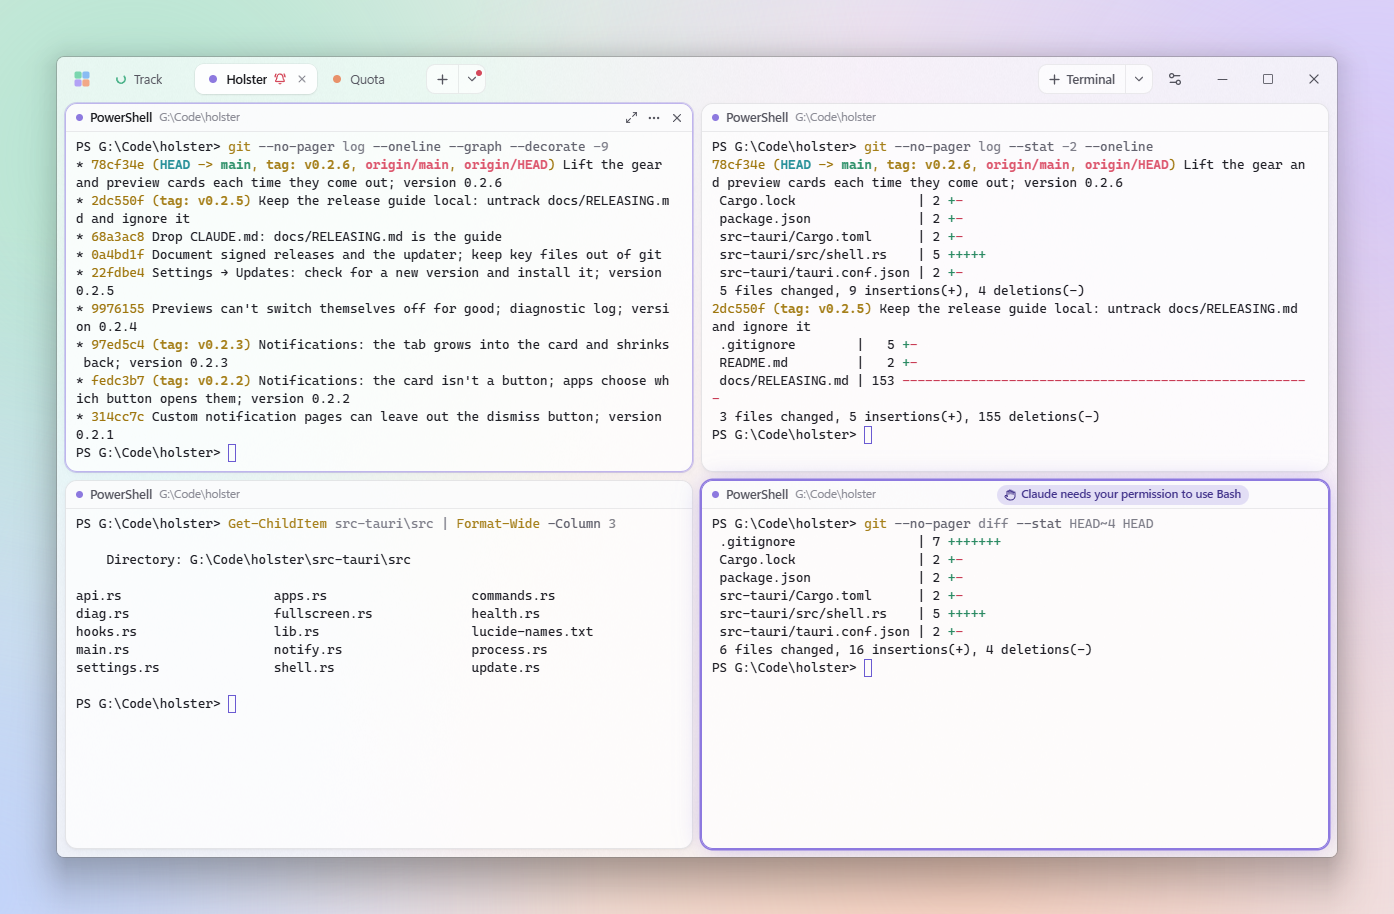
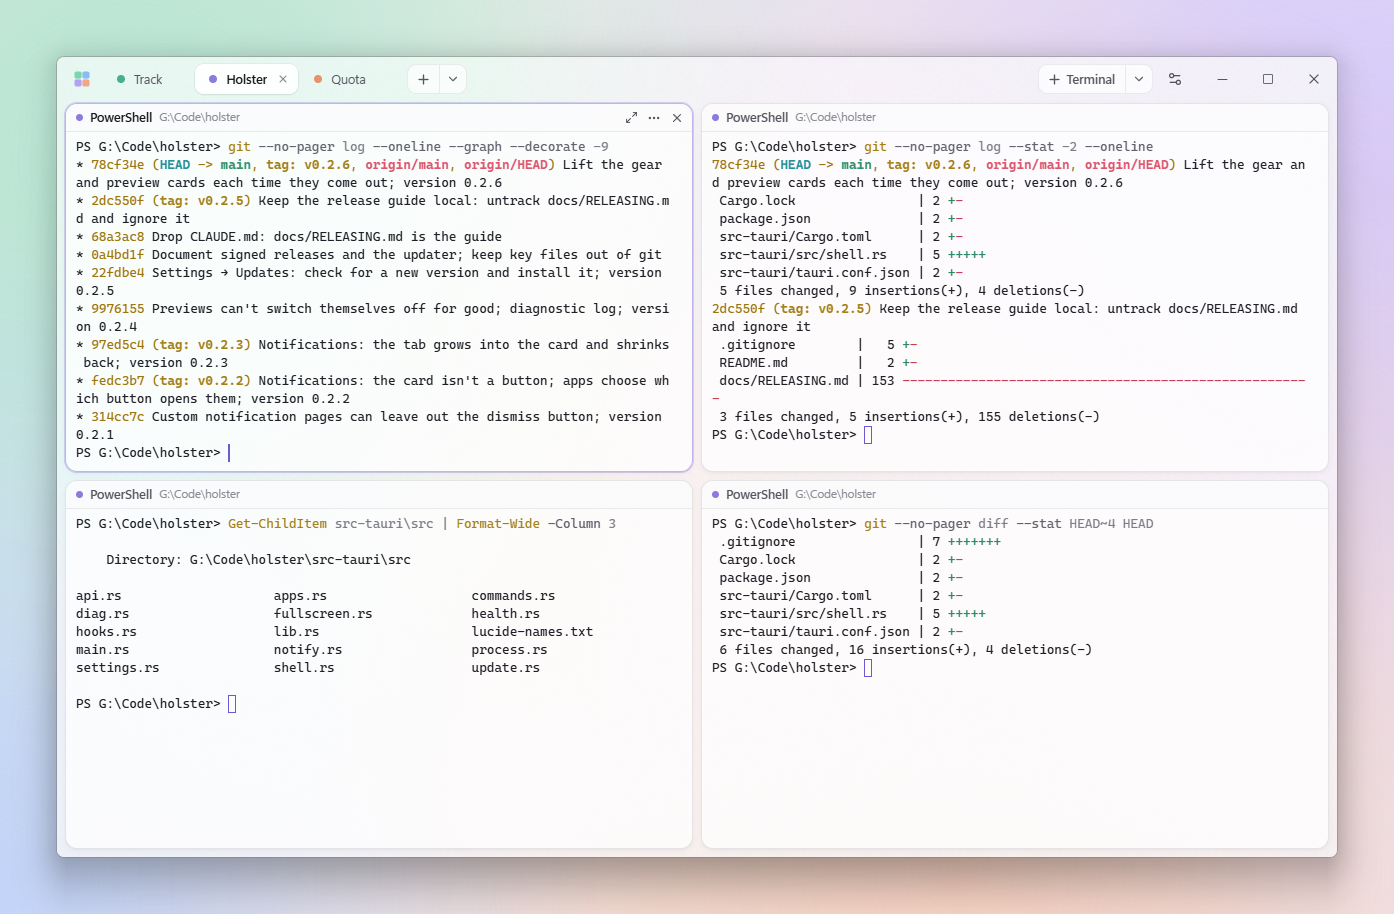
README: screenshots with real output only, no staged alerts
Claude-Session: https://claude.ai/code/session_014SUBH12wNJoXp7s8Vpkz6y

Changed region(s): [[0.4935, 0.5208, 0.9562, 0.5514], [0.5244, 0.919, 0.9562, 0.9497], [0.2159, 0.0613, 0.2776, 0.0919]]

diff --git a/README.md b/README.md
@@ -20,7 +20,7 @@
   <picture>
     <source media="(prefers-color-scheme: dark)" srcset="docs/images/hero-dark.png">
     <source media="(prefers-color-scheme: light)" srcset="docs/images/hero-light.png">
-    <img src="docs/images/hero-dark.png" width="820" alt="Track with three screens as tabs. The Holster screen shows four terminals with git output; one is ringed because Claude Code needs permission to run Bash, and the Track tab shows a spinner while an agent works there">
+    <img src="docs/images/hero-dark.png" width="820" alt="Track with three screens as tabs: the Holster screen shows four terminals side by side with git history, a diff summary and a folder listing">
   </picture>
 </p>
 
